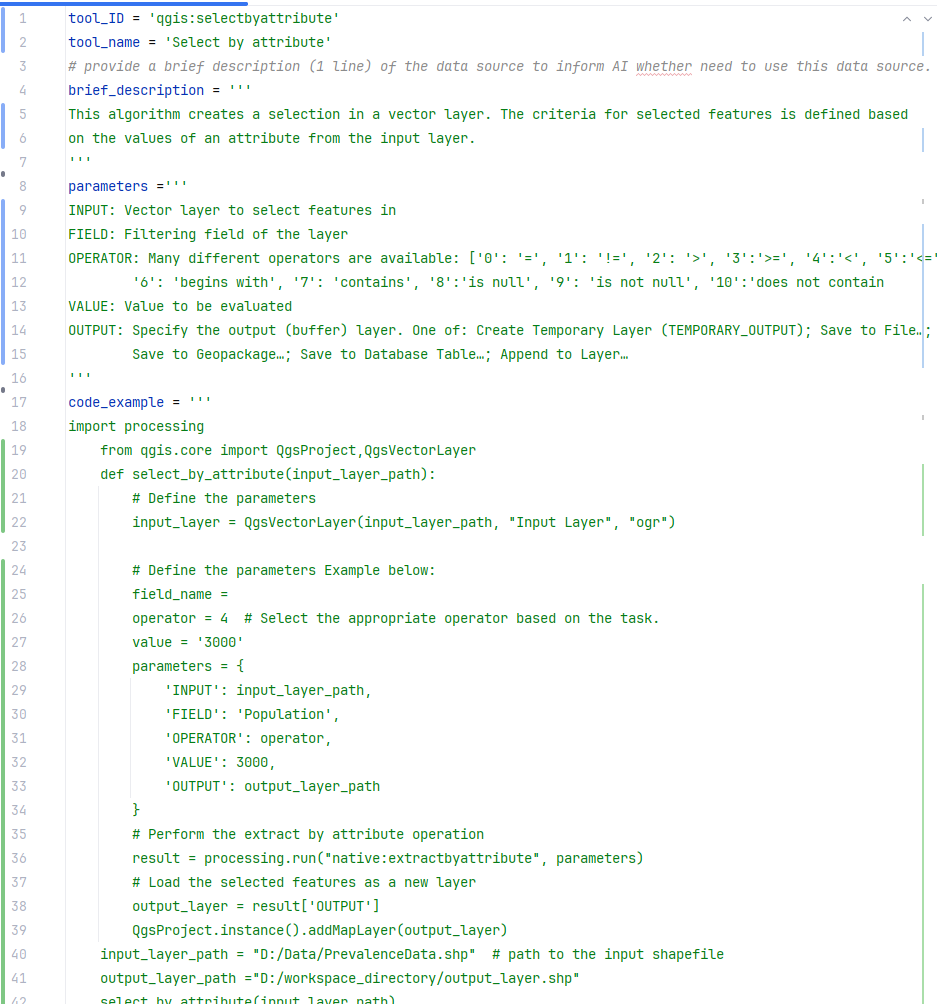
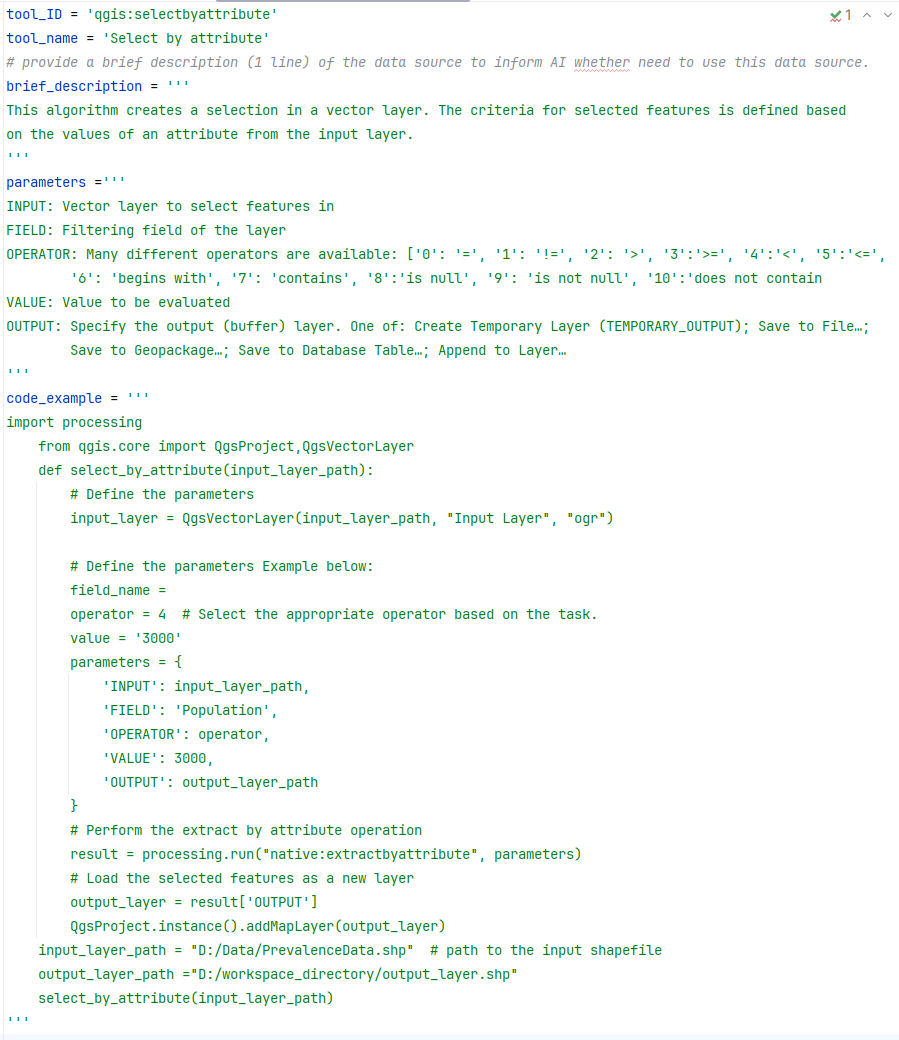
Initial commit

diff --git a/SpatialAnalysisAgent/Tools_Documentation/Tools_documentationREADME.MD b/SpatialAnalysisAgent/Tools_Documentation/Tools_documentationREADME.MD
@@ -50,7 +50,7 @@ Also an example has can be seen in the image below.
 
 ### An example of a tool documentation file
 
-![img.png](img.png)
+![img.png](../../Doc/Sample_documentation_file.png)
 
 
 
